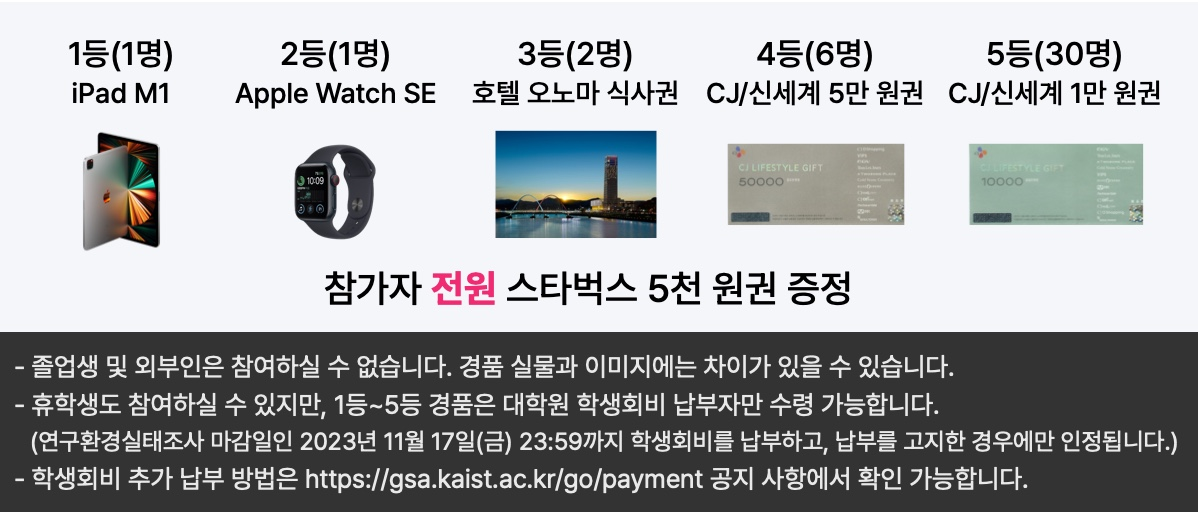
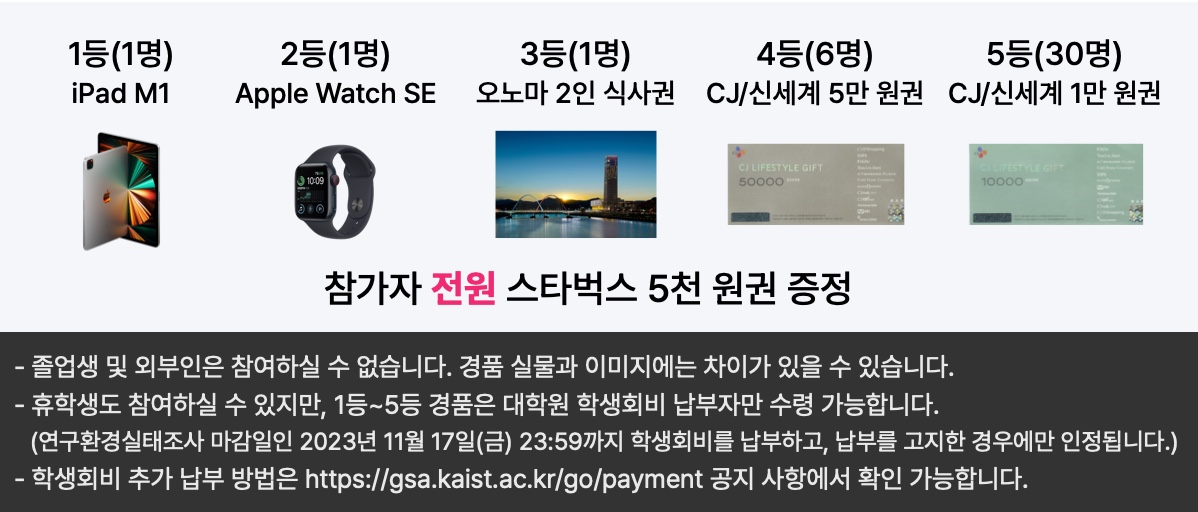
2023년 연구환경실태조사 시작

Changed region(s): [[0.4015, 0.0625, 0.5868, 0.2188]]

diff --git a/docs/index.html b/docs/index.html
@@ -34,11 +34,11 @@
       <h2><span class="step">1단계</span><br />경품 코드 생성하기<span class="small"> (선택)</span></h2>
       <p>경품 코드 입력 및 상품 수령은 선택 사항입니다.</p>
     </a>
-    <a href="#" onclick="alert('준비 중입니다.')">
+    <a href="https://forms.gle/iJqAd5Q7JMQqsZuR7" target="_blank" rel="noopener noreferrer nofollow">
       <h2><span class="step">2단계</span><br />연구환경실태조사 참여하기</h2>
       <p><strong>연구환경실태조사</strong>에 경품 코드를 입력하여 응답을 완료하신 <strong>모든 분께 스타벅스 5,000원권</strong>을 드립니다.</p>
     </a>
-    <a href="#" onclick="alert('준비 중입니다.')">
+    <a href="https://forms.gle/dBMfRe9MDjUWyybC9" target="_blank" rel="noopener noreferrer nofollow">
       <h2><span class="step">3단계</span><br />인권실태조사 참여하기</h2>
       <p>추가로 <strong>인권실태조사</strong>까지 모두 완료하신 경우에만 연구환경실태조사 추첨 경품을 수령하실 수 있습니다.</p>
     </a>
@@ -47,7 +47,7 @@
   <div class="giveaway">
     <p>* ChatGSA는 2024년 초에 안내될 연구환경실태조사 시각화 페이지에서 확인하실 수 있습니다.</p>
     <img src="giveaway.jpg" srcset="giveaway.jpg 1x, giveaway@2x.jpg 2x, giveaway@3x.jpg 3x"
-      alt="1등 1명 iPad M1, 2등 1명 Apple Watch SE, 3등 2명 호텔 오노마 식사권, 4등 6명 CJ/신세계 5만 원권, 5등 30명 CJ/신세계 1만 원권. 참가자 전원 스타벅스 5천 원권 증정. 졸업생 및 외부인은 참여하실 수 없습니다. 경품 실물과 이미지에는 차이가 있을 수 있습니다. 휴학생도 참여하실 수 있지만, 1등~5등 경품은 대학원 학생회비 납부자만 수령 가능합니다. 연구환경실태조사 마감일은 2023년 11월 17일 금요일 23시 59분까지 학생회비를 납부하고, 납부를 고지한 경우에만 인정됩니다. 학생회비 추가 납부 방법은 https://gsa.kaist.ac.kr/go/payment 공지 사항에서 확인 가능합니다." />
+      alt="1등 1명 iPad M1, 2등 1명 Apple Watch SE, 3등 1명 오노마 2인 식사권, 4등 6명 CJ/신세계 5만 원권, 5등 30명 CJ/신세계 1만 원권. 참가자 전원 스타벅스 5천 원권 증정. 졸업생 및 외부인은 참여하실 수 없습니다. 경품 실물과 이미지에는 차이가 있을 수 있습니다. 휴학생도 참여하실 수 있지만, 1등~5등 경품은 대학원 학생회비 납부자만 수령 가능합니다. 연구환경실태조사 마감일은 2023년 11월 17일 금요일 23시 59분까지 학생회비를 납부하고, 납부를 고지한 경우에만 인정됩니다. 학생회비 추가 납부 방법은 https://gsa.kaist.ac.kr/go/payment 공지 사항에서 확인 가능합니다." />
   </div>
 
   <div class="advertisement">

diff --git a/docs/index.css b/docs/index.css
@@ -27,6 +27,7 @@ p {
     font-weight: 300;
     font-size: 1.4em;
     color: #D9D9E3;
+    line-height: 1.3;
 }
 
 .info {
